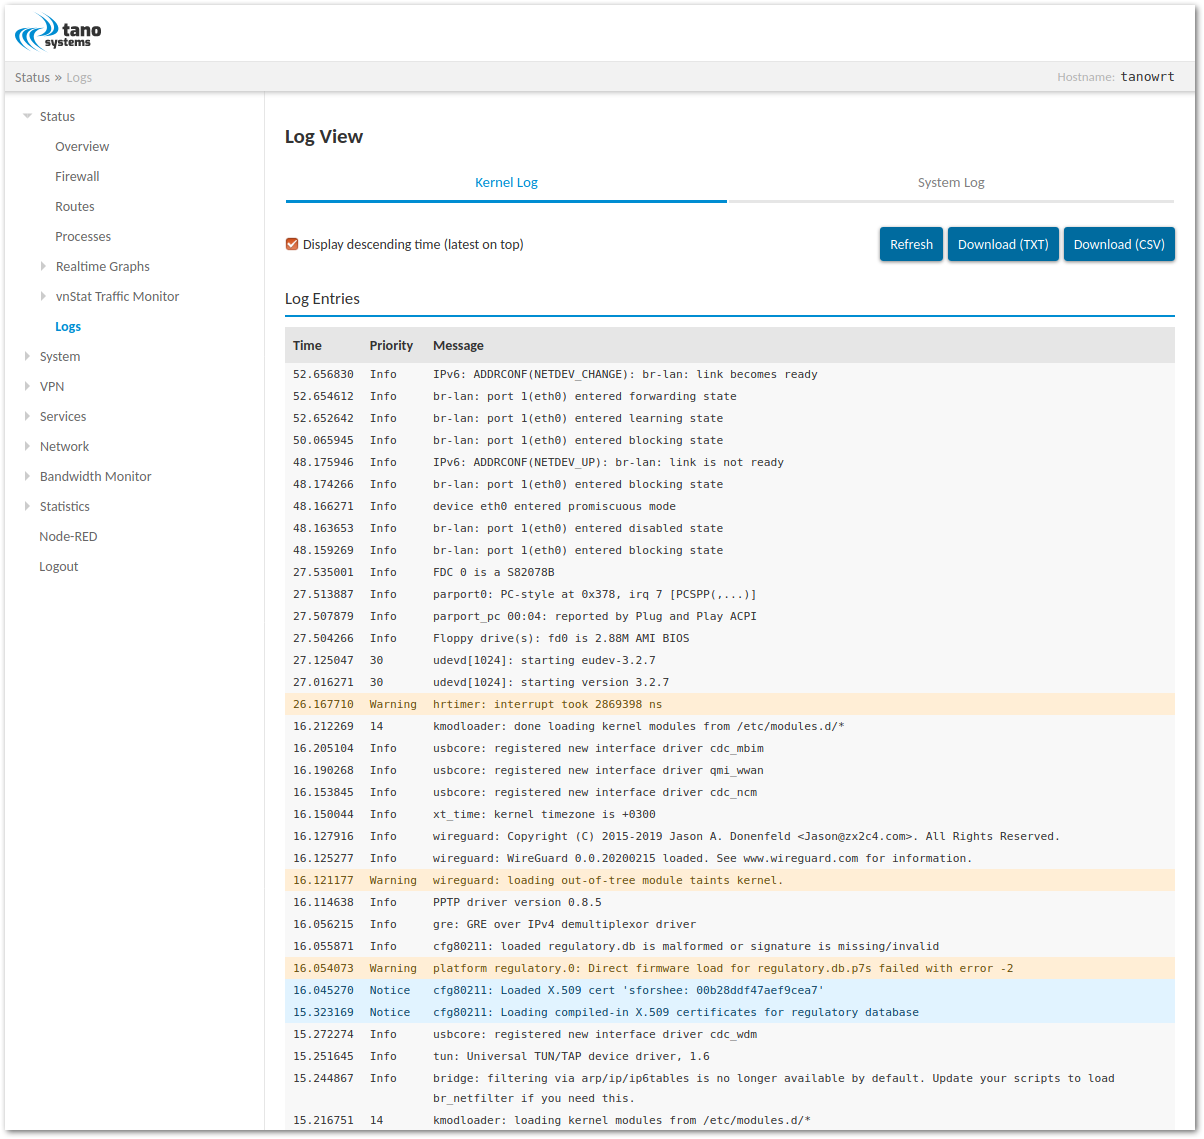
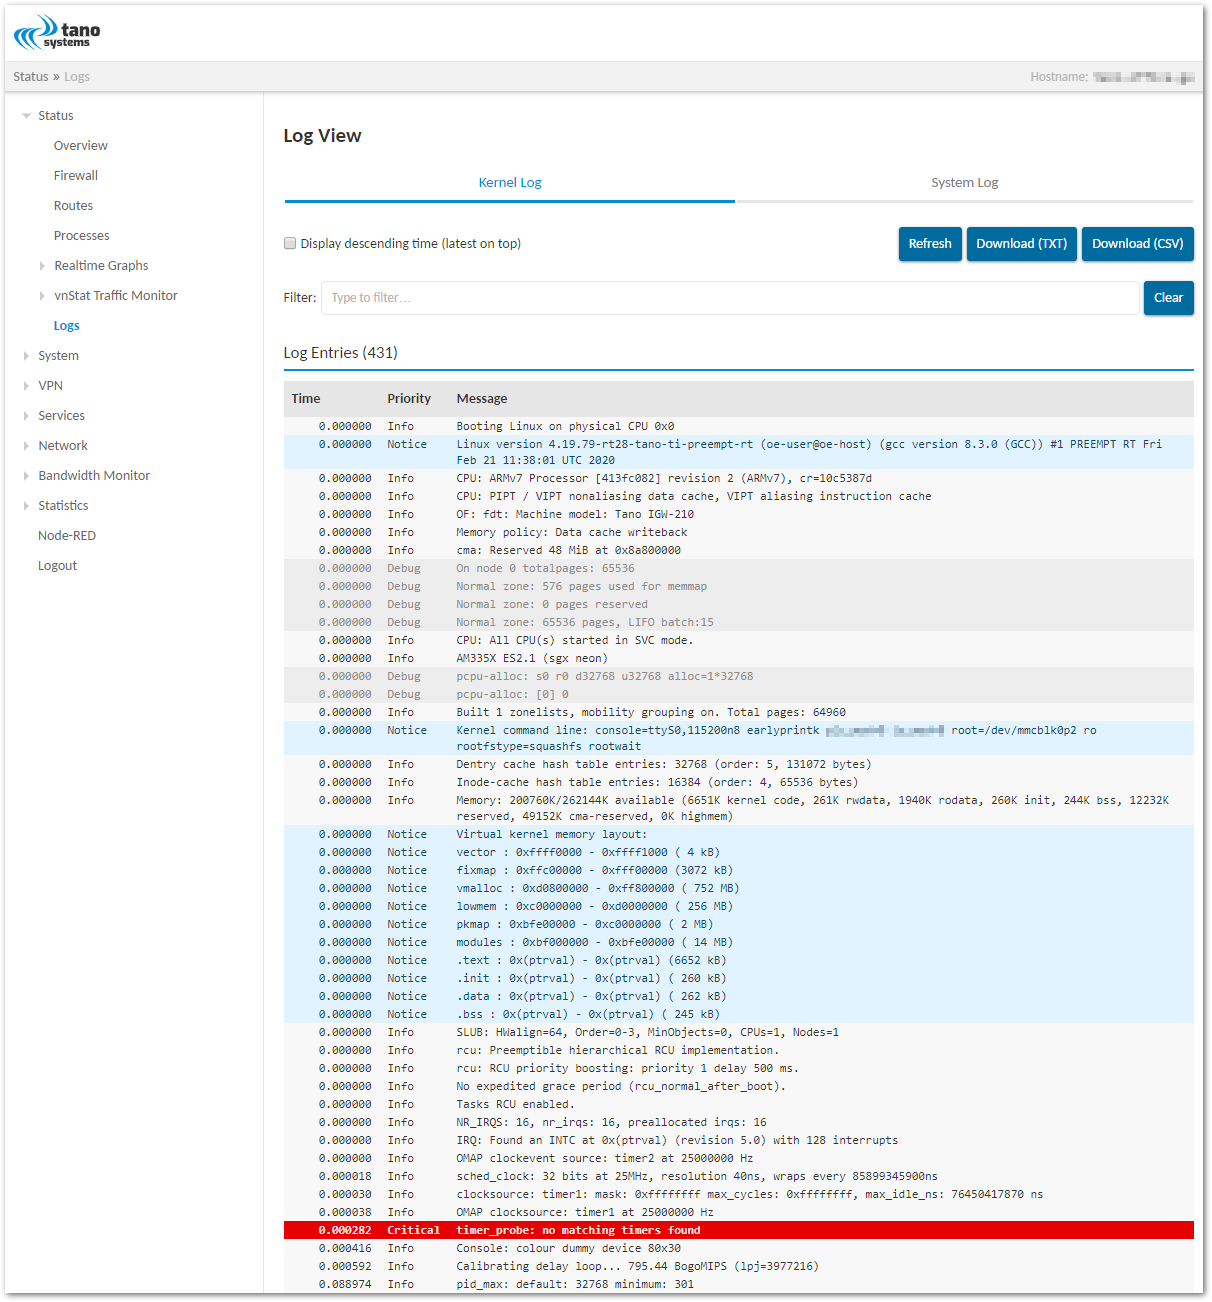
README.md: Update screenshots and text

diff --git a/README.md b/README.md
@@ -8,7 +8,14 @@ This is an simple LuCI web UI application for log viewing.
 ## Dependencies
 This application requires a installed [Syslog File Converter](https://github.com/namedun/syslog_fc) utility on the target system for converting log files to JSON format.
 
+## Supported languages
+- Russian
+- English
+
 ## Screenshots
 
-### Kernel Log
-![Kernel Log](screenshots/luci-app-tn-logview.png?raw=true "Kernel Log")
+### Log View
+![Log View](screenshots/luci-app-tn-logview.png?raw=true "Log View")
+
+### Entries Filter
+![Entries Filter](screenshots/luci-app-tn-logview-filter.png?raw=true "Entries Filter")
